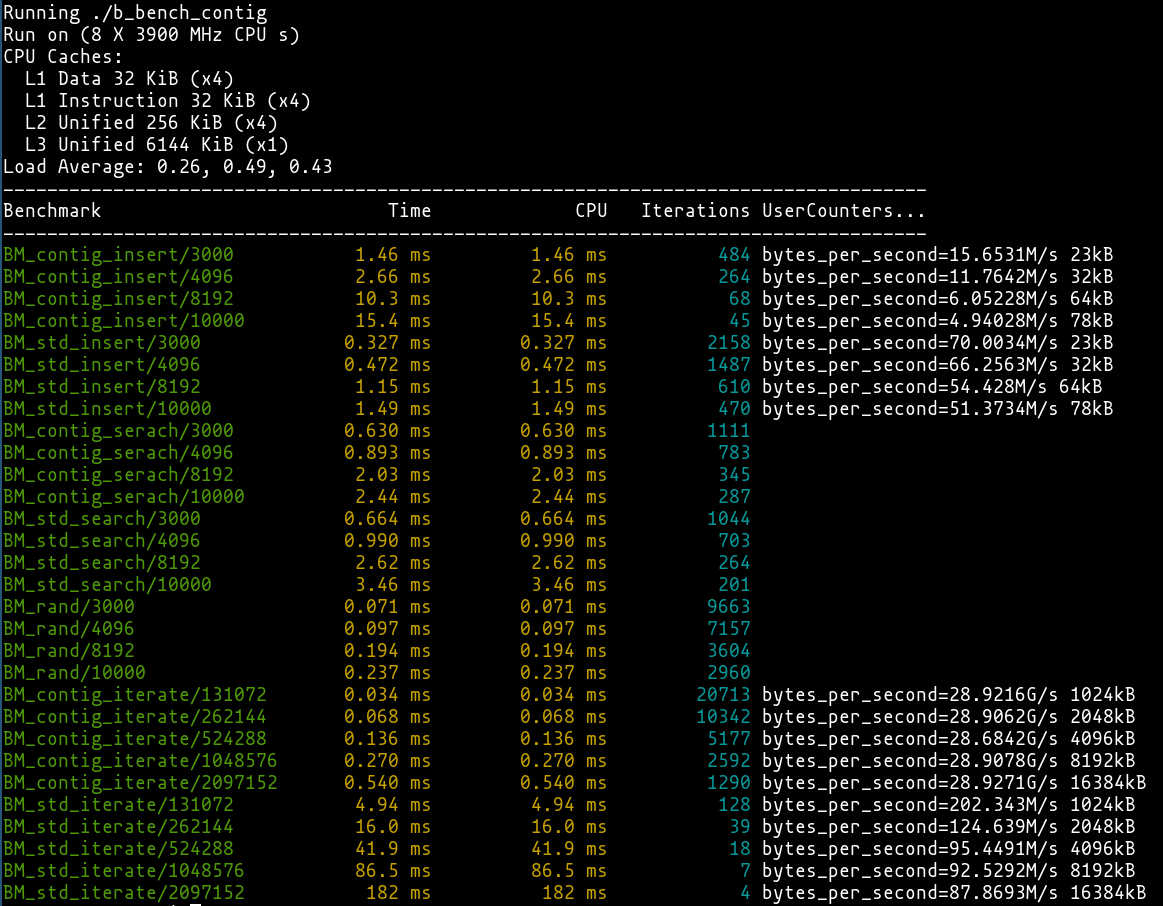
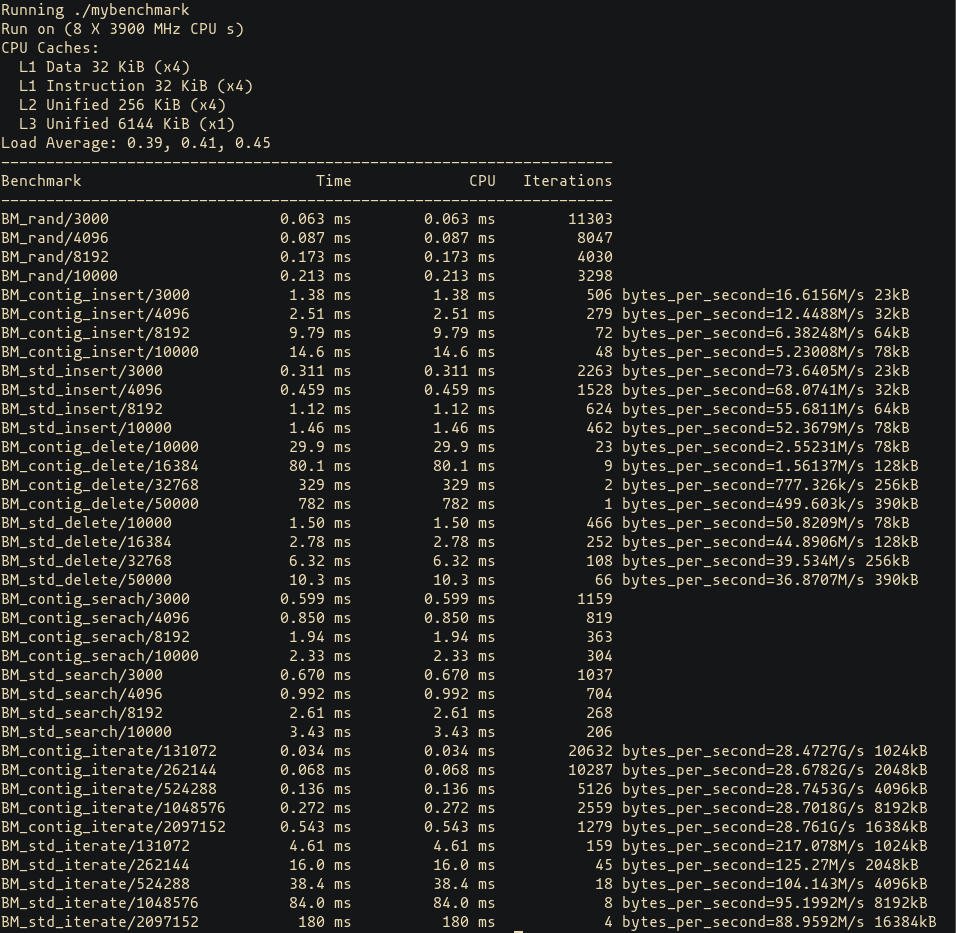
fixed

Changed region(s): [[0.0, 0.0, 1.0, 1.0]]

diff --git a/b_bench_contig.cpp b/b_bench_contig.cpp
@@ -1,5 +1,6 @@
-#include "benchmark.h"
+#include <benchmark/benchmark.h>
 #include "ContiguousMap.h"
+#include <iostream>
 #include <random>
 
 auto generate_pairs(size_t N)
@@ -11,6 +12,15 @@ auto generate_pairs(size_t N)
     res.push_back(std::make_pair(std::rand(), std::rand()));
   }
   return res;
+}
+
+void insert_individually(auto&& container, auto&& it1, auto&& it2)
+{
+  while(it1 != it2)
+  {
+    container.insert(*it1);
+    ++it1;
+  }
 }
 
 const auto global_pairs = generate_pairs(50000000);
@@ -47,8 +57,7 @@ static void BM_std_search(benchmark::State& state)
 static void BM_contig_serach(benchmark::State& state)
 {
   const long count = state.range(0);
-  ContiguousMap<int, int> my_map(global_pairs.cbegin(),
-                                 global_pairs.cbegin() + count);
+  ContiguousMap<int, int> my_map(global_pairs.cbegin(), global_pairs.cbegin() + count);
   const auto iterations = 3 * count;
   for(auto _ : state)
   {
@@ -67,7 +76,7 @@ static void BM_contig_insert(benchmark::State& state)
   for(auto _ : state)
   {
     ContiguousMap<int, int> my_map;
-    my_map.insert(global_pairs.cbegin(), global_pairs.cbegin() + count);
+    insert_individually(my_map, global_pairs.cbegin(), global_pairs.cbegin() + count);
     benchmark::DoNotOptimize(my_map);
   }
   state.SetBytesProcessed(long(state.iterations()) * bytes);
@@ -81,7 +90,43 @@ static void BM_std_insert(benchmark::State& state)
   for(auto _ : state)
   {
     std::map<int, int> std_map;
-    std_map.insert(global_pairs.cbegin(), global_pairs.cbegin() + count);
+    insert_individually(std_map, global_pairs.cbegin(), global_pairs.cbegin() + count);
+    benchmark::DoNotOptimize(std_map);
+  }
+  state.SetBytesProcessed(long(state.iterations()) * bytes);
+  state.SetLabel(std::to_string(bytes / 1024) + "kB");
+}
+
+static void BM_contig_delete(benchmark::State& state)
+{
+  const long count = state.range(0);
+  const long bytes = state.range(0) * 2 * long(sizeof(int));
+  for(auto _ : state)
+  {
+    ContiguousMap<int, int> my_map;
+    insert_individually(my_map, global_pairs.cbegin(), global_pairs.cbegin() + count);
+    while(my_map.size() > 0)
+    {
+      my_map.erase(my_map.begin());
+    }
+    benchmark::DoNotOptimize(my_map);
+  }
+  state.SetBytesProcessed(long(state.iterations()) * bytes);
+  state.SetLabel(std::to_string(bytes / 1024) + "kB");
+}
+
+static void BM_std_delete(benchmark::State& state)
+{
+  const long count = state.range(0);
+  const long bytes = state.range(0) * 2 * long(sizeof(int));
+  for(auto _ : state)
+  {
+    std::map<int, int> std_map;
+    insert_individually(std_map, global_pairs.cbegin(), global_pairs.cbegin() + count);
+    while(!std_map.empty())
+    {
+      std_map.erase(std_map.begin());
+    }
     benchmark::DoNotOptimize(std_map);
   }
   state.SetBytesProcessed(long(state.iterations()) * bytes);
@@ -92,8 +137,7 @@ static void BM_contig_iterate(benchmark::State& state)
 {
   const long count = state.range(0);
   const long bytes = state.range(0) * 2 * long(sizeof(int));
-  ContiguousMap<int, int> my_map(global_pairs.cbegin(),
-                                 global_pairs.cbegin() + count);
+  ContiguousMap<int, int> my_map(global_pairs.cbegin(), global_pairs.cbegin() + count);
   for(auto _ : state)
   {
     for(const auto& el : my_map)
@@ -110,8 +154,7 @@ static void BM_std_iterate(benchmark::State& state)
 {
   const long count = state.range(0);
   const long bytes = state.range(0) * 2 * long(sizeof(int));
-  std::map<int, int> std_map(global_pairs.cbegin(),
-                             global_pairs.cbegin() + count);
+  std::map<int, int> std_map(global_pairs.cbegin(), global_pairs.cbegin() + count);
   for(auto _ : state)
   {
     for(const auto& el : std_map)
@@ -123,6 +166,9 @@ static void BM_std_iterate(benchmark::State& state)
   state.SetBytesProcessed(long(state.iterations()) * bytes);
   state.SetLabel(std::to_string(bytes / 1024) + "kB");
 }
+
+BENCHMARK(BM_rand)->Unit(benchmark::kMillisecond)->RangeMultiplier(2)->Range(3000, 10000);
+
 BENCHMARK(BM_contig_insert)
     ->Unit(benchmark::kMillisecond)
     ->RangeMultiplier(2)
@@ -133,17 +179,22 @@ BENCHMARK(BM_std_insert)
     ->RangeMultiplier(2)
     ->Range(3000, 10000);
 
+BENCHMARK(BM_contig_delete)
+    ->Unit(benchmark::kMillisecond)
+    ->RangeMultiplier(2)
+    ->Range(10000, 50000);
+
+BENCHMARK(BM_std_delete)
+    ->Unit(benchmark::kMillisecond)
+    ->RangeMultiplier(2)
+    ->Range(10000, 50000);
+
 BENCHMARK(BM_contig_serach)
     ->Unit(benchmark::kMillisecond)
     ->RangeMultiplier(2)
     ->Range(3000, 10000);
 
 BENCHMARK(BM_std_search)
-    ->Unit(benchmark::kMillisecond)
-    ->RangeMultiplier(2)
-    ->Range(3000, 10000);
-
-BENCHMARK(BM_rand)
     ->Unit(benchmark::kMillisecond)
     ->RangeMultiplier(2)
     ->Range(3000, 10000);

diff --git a/ContiguousMap.h b/ContiguousMap.h
@@ -1,0 +1,212 @@
+#include <vector>
+#include <map>
+#include <algorithm>
+
+template<typename Key, typename T, typename Compare = std::less<Key>>
+class ContiguousMap
+{
+public:
+  using Base = typename std::vector<std::pair<Key, T>>;
+  using iterator = typename Base::iterator;
+  using const_iterator = typename Base::const_iterator;
+  using reverse_iterator = typename Base::reverse_iterator;
+  using const_reverse_iterator = typename Base::const_reverse_iterator;
+  using reference = typename Base::reference;
+  using const_reference = typename Base::const_reference;
+  using pointer = typename Base::pointer;
+  using const_pointer = typename Base::const_pointer;
+  using value_type = std::pair<Key, T>;
+
+public:
+  static bool key_compare(const value_type& x, const value_type& y)
+  {
+    Compare comp;
+    return comp(x.first, y.first);
+  }
+
+private:
+  struct KeyComp
+  {
+    template<typename T1, typename T2>
+    bool operator()(const T1& k1, const T2& k2) const
+    {
+      if constexpr(std::is_same_v<T1, Key> && std::is_same_v<T2, Key>)
+      {
+        return k1 < k2;
+      }
+      else if constexpr(std::is_same_v<T1, Key> &&
+                        std::is_same_v<T2, value_type>)
+      {
+        return k1 < k2.first;
+      }
+      else if constexpr(std::is_same_v<T1, value_type> &&
+                        std::is_same_v<T2, Key>)
+      {
+        return k1.first < k2;
+      }
+      else
+      {
+        return k1.first < k2.first;
+      }
+    }
+  };
+
+public:
+  ContiguousMap() = default;
+
+  template<typename InputIt>
+  ContiguousMap(InputIt b, InputIt e)
+  {
+    std::map<Key, T, Compare> filter_duplicates(b, e);
+    elements_.reserve(filter_duplicates.size());
+    std::copy(filter_duplicates.cbegin(), filter_duplicates.cend(),
+              std::back_inserter(elements_));
+  }
+
+  ContiguousMap(const std::initializer_list<value_type>& l) :
+      ContiguousMap(l.begin(), l.end())
+  {
+  }
+
+  iterator begin()
+  {
+    return elements_.begin();
+  }
+
+  const_iterator begin() const
+  {
+    return elements_.cbegin();
+  }
+
+  iterator end()
+  {
+    return elements_.end();
+  }
+
+  const_iterator end() const
+  {
+    return elements_.cend();
+  }
+
+  const_iterator cbegin() const
+  {
+    return elements_.cbegin();
+  }
+
+  const_iterator cend() const
+  {
+    return elements_.cend();
+  }
+
+  iterator lower_bound(const Key& k)
+  {
+    return std::lower_bound(elements_.begin(), elements_.end(), k, KeyComp());
+  }
+
+  const_iterator lower_bound(const Key& k) const
+  {
+    return std::lower_bound(elements_.cbegin(), elements_.cend(), k, KeyComp());
+  }
+
+  iterator upper_bound(const Key& k)
+  {
+    return std::upper_bound(elements_.begin(), elements_.end(), k, KeyComp());
+  }
+
+  const_iterator upper_bound(const Key& k) const
+  {
+    return std::upper_bound(elements_.cbegin(), elements_.cend(), k, KeyComp());
+  }
+
+  size_t size() const
+  {
+    return elements_.size();
+  }
+
+  void clear()
+  {
+    elements_.clear();
+  }
+
+  std::pair<iterator, bool> insert(const value_type& value)
+  {
+    auto it = lower_bound(value.first);
+    bool not_found = false;
+    if(it == elements_.cend() || key_compare(value, *it))
+    {
+      elements_.insert(it, value);
+      not_found = true;
+    }
+    return std::make_pair(it, not_found);
+  }
+
+  template<typename InputIt>
+  void insert(InputIt first, InputIt last)
+  {
+    while(first != last)
+    {
+      insert(*first);
+      ++first;
+    }
+  }
+
+  void erase(iterator pos)
+  {
+    elements_.erase(pos);
+  }
+
+  void erase(const_iterator pos)
+  {
+    elements_.erase(pos);
+  }
+
+  bool erase(const Key& k)
+  {
+    auto it = find(k);
+    if(it == elements_.end())
+    {
+      return false;
+    }
+    else
+    {
+      elements_.erase(it);
+      return true;
+    }
+  }
+
+  iterator find(const Key& k)
+  {
+    auto it = lower_bound(k);
+    if(it != elements_.end() && KeyComp()(k, it->first))
+    {
+      it = elements_.end();
+    }
+    return it;
+  }
+
+  const_iterator find(const Key& k) const
+  {
+    auto it = lower_bound(k);
+    if(it != elements_.cend() && KeyComp()(k, it->first))
+    {
+      it = elements_.cend();
+    }
+    return it;
+  }
+
+  bool contains(const Key& k) const
+  {
+    return std::binary_search(elements_.cbegin(), elements_.cend(), k,
+                              KeyComp());
+  }
+
+  auto operator<=>(const ContiguousMap& rhs) const = default;
+
+  void swap(ContiguousMap& rhs)
+  {
+    std::swap(elements_, rhs.elements_);
+  }
+
+private:
+  std::vector<std::pair<Key, T>> elements_;
+};
